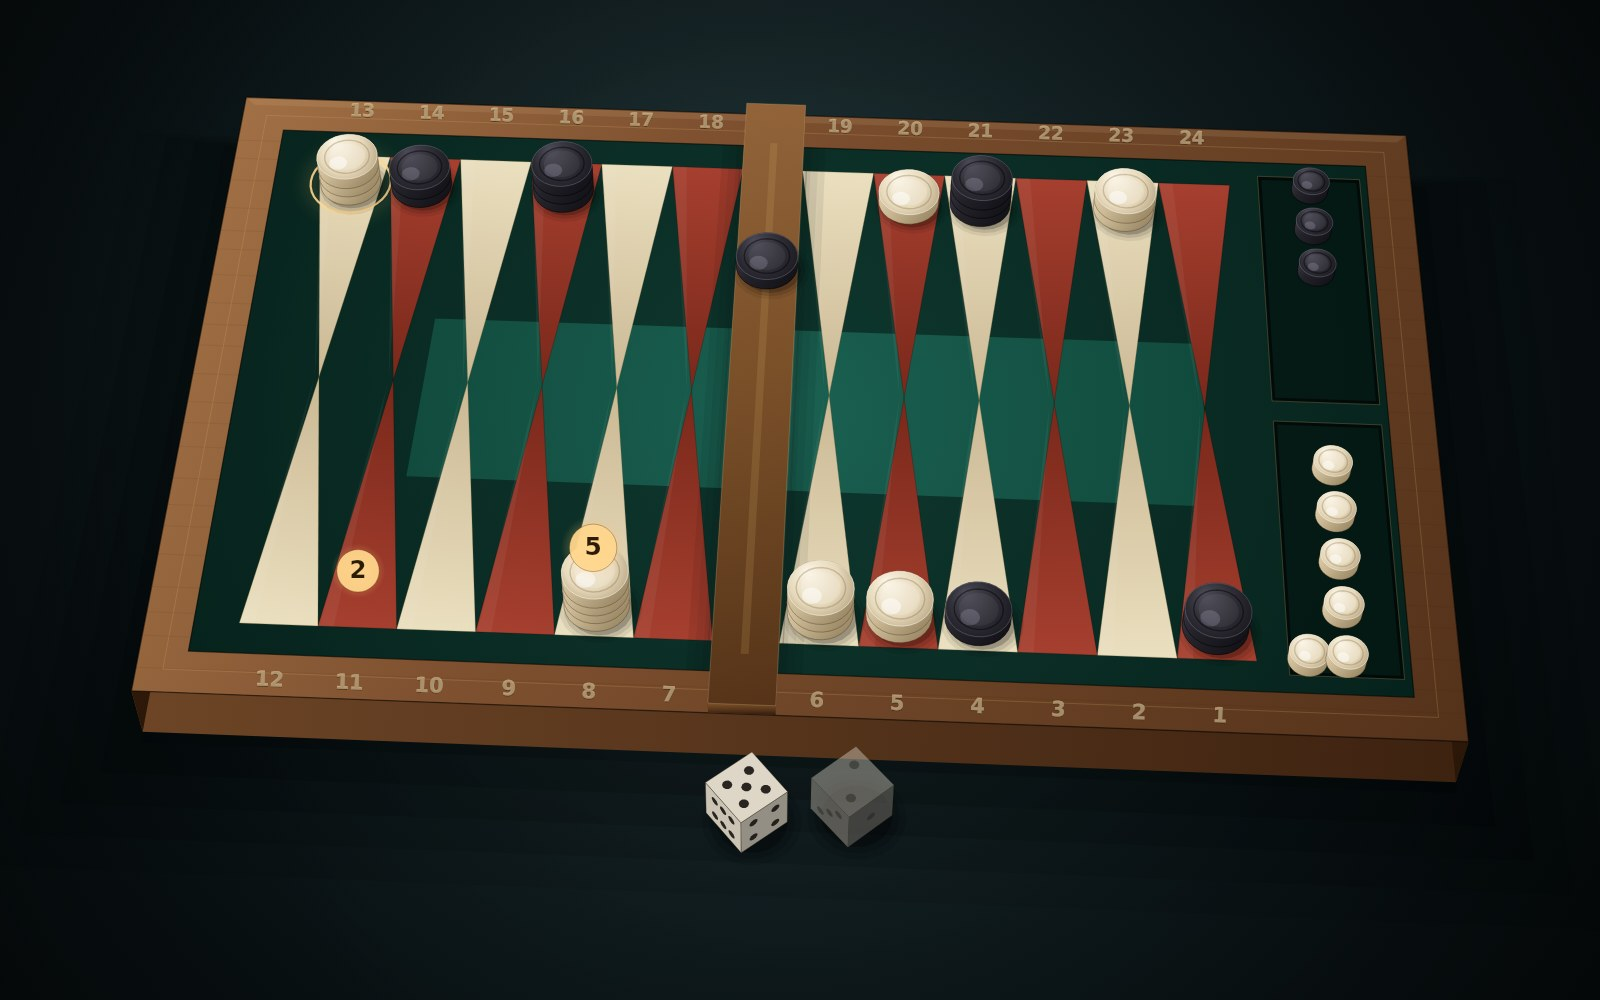
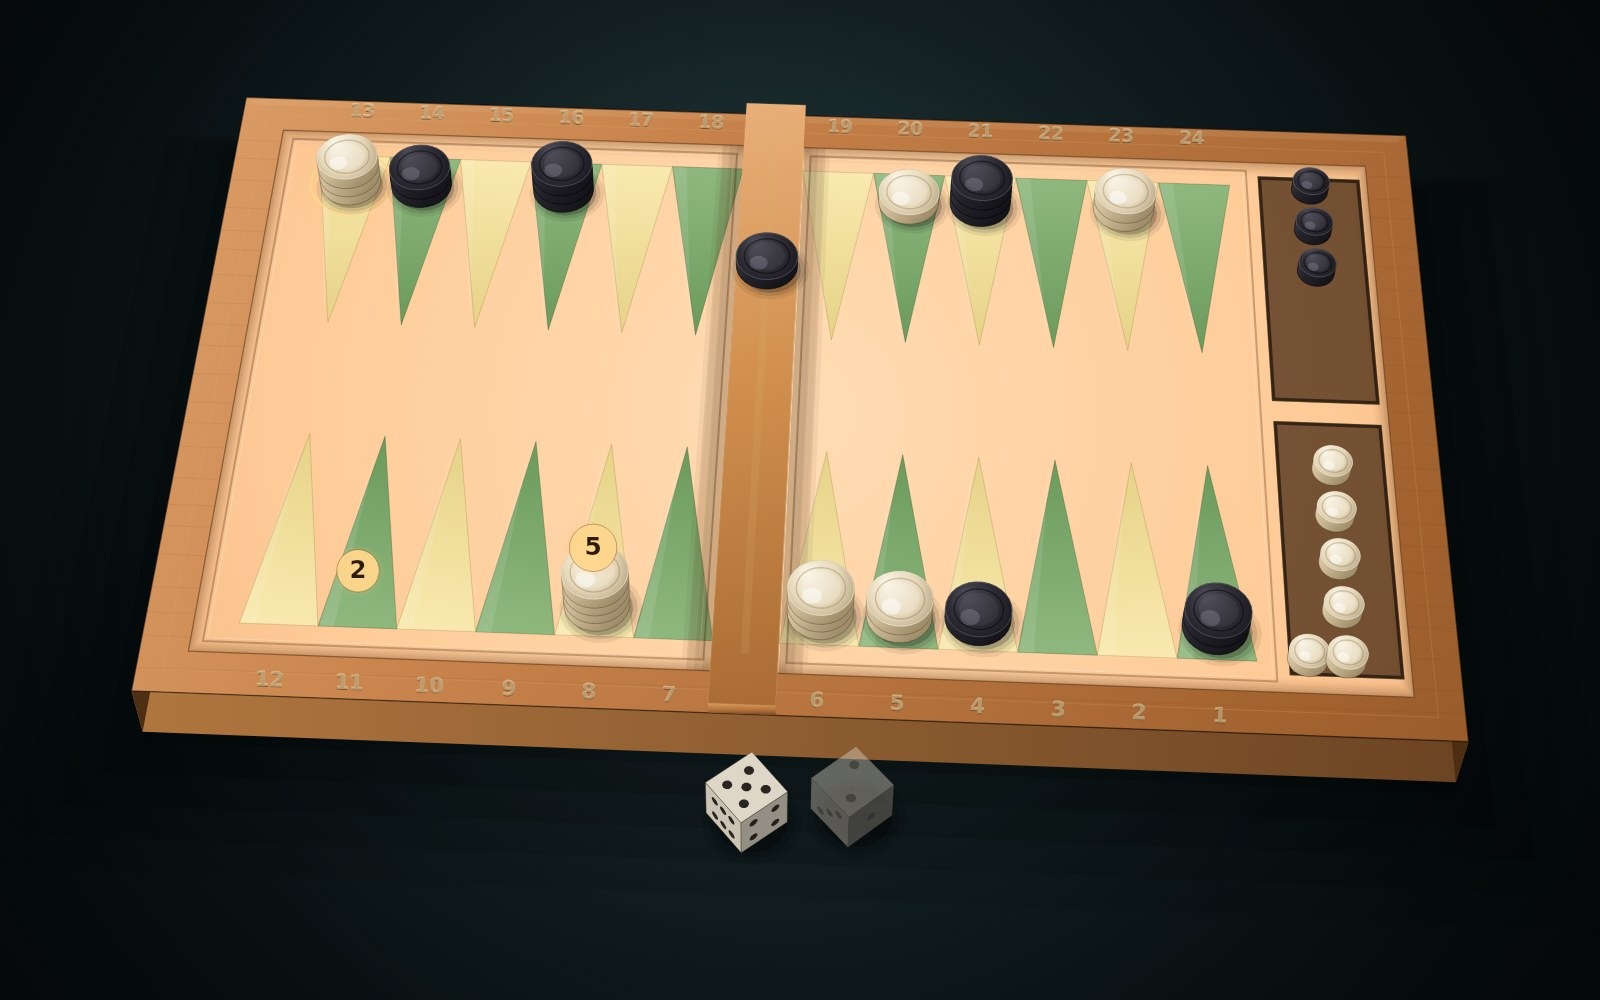
Rebuild the surface as two panels: peach field, short points, vertical-only section

diff --git a/js/scene.js b/js/scene.js
@@ -38,18 +38,20 @@ export const DICE_REST = [
   { x: 1.4, y: -5.84 },
 ];
 
+const POINT_GAP = 0.95;  // how far a point's tip stops short of the middle
+
 const COL = {
-  woodHi: '#a9774a',
-  wood: '#7f5130',
-  woodLo: '#54321a',
-  woodDeep: '#371d0d',
-  feltHi: '#1a6051',
-  felt: '#0f4639',
-  feltLo: '#082e27',
-  cream: '#eadfbf',
-  creamLo: '#cbb894',
-  red: '#a63f2f',
-  redLo: '#79281b',
+  woodHi: '#dda06a',
+  wood: '#c8824b',
+  woodLo: '#9a5c2b',
+  woodDeep: '#5d3413',
+  feltHi: '#ffdcb4',
+  felt: '#ffcc99',
+  feltLo: '#f0b47e',
+  pointA: '#f9e9ae',
+  pointALo: '#e6d287',
+  pointB: '#8fb87f',
+  pointBLo: '#6b9a5c',
   gold: '#d8b26a',
   ivory: '#f3ead7',
   ivoryDark: '#c9b998',
@@ -479,10 +481,10 @@ export class Renderer {
 
     // ---- sides
     const shades = [
-      ['#6d4526', '#3d2210'], // front (nearest)
-      ['#4c2e16', '#2a1608'], // right
-      ['#3a2110', '#20120a'], // back
-      ['#4c2e16', '#2a1608'], // left
+      ['#b0763f', '#6b4423'], // front (nearest)
+      ['#82562e', '#4a2c12'], // right
+      ['#5e3a1c', '#33190a'], // back
+      ['#82562e', '#4a2c12'], // left
     ];
     for (let i = 0; i < 4; i++) {
       const a = outer[i];
@@ -517,8 +519,8 @@ export class Renderer {
     ctx.save();
     trace(ctx, top);
     ctx.clip();
-    ctx.globalAlpha = 0.07;
-    ctx.strokeStyle = '#3a210f';
+    ctx.globalAlpha = 0.06;
+    ctx.strokeStyle = '#4a2a10';
     ctx.lineWidth = 1;
     for (let i = 0; i < 22; i++) {
       const y = b.OUT_Y0 + 0.35 + (i / 22) * (b.OUT_Y1 - b.OUT_Y0 - 0.7);
@@ -579,14 +581,19 @@ export class Renderer {
       [b.FELT_X1, b.FELT_Y1, 0.004],
       [b.FELT_X0, b.FELT_Y1, 0.004],
     ]);
-    trace(ctx, inner);
-    ctx.strokeStyle = 'rgba(0,0,0,0.42)';
-    ctx.lineWidth = 10 * (this.cam.focal / 90);
-    ctx.stroke();
+    // soft recessed edge: a stack of thin strokes instead of one wide one,
+    // so the shading fades out instead of ending on a hard visible edge
+    const k = clamp(this.cam.focal / 90, 0.5, 2.2);
+    for (let i = 1; i <= 7; i++) {
+      trace(ctx, inner);
+      ctx.strokeStyle = `rgba(94,52,16,${0.075 * (1 - (i - 1) / 8)})`;
+      ctx.lineWidth = i * 1.9 * k;
+      ctx.stroke();
+    }
     ctx.restore();
 
     trace(ctx, felt);
-    ctx.strokeStyle = 'rgba(0,0,0,0.55)';
+    ctx.strokeStyle = 'rgba(84,48,16,0.55)';
     ctx.lineWidth = 1.2;
     ctx.stroke();
 
@@ -618,7 +625,7 @@ export class Renderer {
     for (const [ya, yb] of wells) {
       const pts = this.poly3(ctx, [[x0, ya, z], [x1, ya, z], [x1, yb, z], [x0, yb, z]]);
       trace(ctx, pts);
-      ctx.fillStyle = 'rgba(3,18,15,0.62)';
+      ctx.fillStyle = 'rgba(58,30,10,0.70)';
       ctx.fill();
 
       // recessed inner shadow
@@ -640,23 +647,50 @@ export class Renderer {
   }
 
   drawSeam(ctx) {
-    // vertical accents either side of the bar: the board is split left/right,
-    // never top/bottom, so the only seam lines run along Y.
+    // Two framed panels, side by side, with the raised bar standing in the
+    // channel between them. Nothing here runs across the board horizontally,
+    // so the only section the eye can read is the vertical one.
     const b = BOARD;
-    const y0 = b.FELT_Y0 + 0.34;
-    const y1 = b.FELT_Y1 - 0.34;
-    for (const x of [-(b.BAR_HW + 0.05), b.BAR_HW + 0.05]) {
-      const s0 = this.p(x, y0, 0.005);
-      const s1 = this.p(x, y1, 0.005);
-      ctx.beginPath();
-      ctx.moveTo(s0.x, s0.y);
-      ctx.lineTo(s1.x, s1.y);
-      ctx.strokeStyle = 'rgba(0,0,0,0.20)';
-      ctx.lineWidth = 1.4;
+    const y0 = b.FELT_Y0 + 0.16;
+    const y1 = b.FELT_Y1 - 0.16;
+    const inset = 0.1;
+    const panels = [
+      [b.FELT_X0 + 0.16, -b.BAR_HW - inset],
+      [b.BAR_HW + inset, b.TRAY_X0 - 0.16],
+    ];
+    for (const [xa, xb] of panels) {
+      const rect = (dx, dy) => this.poly3(ctx, [
+        [xa + dx, y0 + dy, 0.005],
+        [xb - dx, y0 + dy, 0.005],
+        [xb - dx, y1 - dy, 0.005],
+        [xa + dx, y1 - dy, 0.005],
+      ]);
+      // warm shadow line marking the panel edge
+      trace(ctx, rect(0, 0));
+      ctx.strokeStyle = 'rgba(80,44,12,0.30)';
+      ctx.lineWidth = 2;
       ctx.stroke();
-      ctx.strokeStyle = 'rgba(255,255,255,0.05)';
+      // light bevel just inside it
+      trace(ctx, rect(0.05, 0.05));
+      ctx.strokeStyle = 'rgba(255,246,224,0.30)';
       ctx.lineWidth = 1;
       ctx.stroke();
+    }
+
+    // channel shadow on the felt either side of the bar, full depth
+    for (const side of [-1, 1]) {
+      const edge = side < 0 ? -b.BAR_HW - inset : b.BAR_HW + inset;
+      for (let i = 0; i < 3; i++) {
+        const a = edge + side * i * 0.09;
+        const c = a + side * 0.09;
+        const band = this.poly3(ctx, [
+          [a, b.FELT_Y0 + 0.16, 0.0048], [c, b.FELT_Y0 + 0.16, 0.0048],
+          [c, b.FELT_Y1 - 0.16, 0.0048], [a, b.FELT_Y1 - 0.16, 0.0048],
+        ]);
+        trace(ctx, band);
+        ctx.fillStyle = `rgba(70,38,10,${0.13 - i * 0.035})`;
+        ctx.fill();
+      }
     }
   }
 
@@ -668,12 +702,15 @@ export class Renderer {
       const x0 = xc - 0.5;
       const x1 = xc + 0.5;
       const baseY = bottom ? b.Y0 : b.Y1;
-      const apexY = 0;
+      // the reference board keeps its points well short of the middle: they run
+      // ~35% of the field and leave a band of bare surface between the rows, so
+      // nothing draws a horizontal line across the board.
+      const apexY = bottom ? -POINT_GAP : POINT_GAP;
       const z = 0.008;
       const tri = this.poly3(ctx, [[x0, baseY, z], [x1, baseY, z], [xc, apexY, z]]);
-      const isRed = colIndex(p) % 2 === 1;
-      const base = isRed ? COL.red : COL.cream;
-      const lo = isRed ? COL.redLo : COL.creamLo;
+      const isB = colIndex(p) % 2 === 1;
+      const base = isB ? COL.pointB : COL.pointA;
+      const lo = isB ? COL.pointBLo : COL.pointALo;
       const gBase = this.p(xc, baseY, z);
       const gApex = this.p(xc, apexY, z);
       const g = ctx.createLinearGradient(gBase.x, gBase.y, gApex.x, gApex.y);
@@ -682,7 +719,7 @@ export class Renderer {
       trace(ctx, tri);
       ctx.fillStyle = g;
       ctx.fill();
-      ctx.strokeStyle = isRed ? 'rgba(0,0,0,0.22)' : 'rgba(120,95,50,0.30)';
+      ctx.strokeStyle = isB ? 'rgba(52,78,42,0.34)' : 'rgba(120,98,44,0.26)';
       ctx.lineWidth = 0.9;
       ctx.stroke();
 
@@ -693,7 +730,7 @@ export class Renderer {
         [x0 + 0.2, baseY, z],
       ]);
       trace(ctx, sheen);
-      ctx.fillStyle = 'rgba(255,255,255,0.05)';
+      ctx.fillStyle = 'rgba(255,255,255,0.10)';
       ctx.fill();
     }
   }
@@ -717,13 +754,13 @@ export class Renderer {
           [c, b.FELT_Y1, 0.006], [a, b.FELT_Y1, 0.006],
         ]);
         trace(ctx, band);
-        ctx.fillStyle = `rgba(0,0,0,${0.18 - i * 0.055})`;
+        ctx.fillStyle = `rgba(70,38,10,${0.26 - i * 0.075})`;
         ctx.fill();
       }
     }
 
     // the two long side faces
-    for (const [x, col] of [[x0, '#432510'], [x1, '#4d2b14']]) {
+    for (const [x, col] of [[x0, '#8a5228'], [x1, '#9a5f31']]) {
       const face = this.poly3(ctx, [[x, y0, zt], [x, y1, zt], [x, y1, 0.008], [x, y0, 0.008]]);
       trace(ctx, face);
       ctx.fillStyle = col;
@@ -734,9 +771,9 @@ export class Renderer {
     const front = this.poly3(ctx, [[x0, y0, zt], [x1, y0, zt], [x1, y0, 0.008], [x0, y0, 0.008]]);
     let bb = bbox(front);
     let g = ctx.createLinearGradient(bb.x0, bb.y0, bb.x0, bb.y1);
-    g.addColorStop(0, '#7d5229');
-    g.addColorStop(0.55, '#57351a');
-    g.addColorStop(1, '#331b0b');
+    g.addColorStop(0, '#d99a5e');
+    g.addColorStop(0.55, '#b3743c');
+    g.addColorStop(1, '#7d4a1f');
     trace(ctx, front);
     ctx.fillStyle = g;
     ctx.fill();
@@ -745,9 +782,9 @@ export class Renderer {
     const top = this.poly3(ctx, [[x0, y0, zt], [x1, y0, zt], [x1, y1, zt], [x0, y1, zt]]);
     bb = bbox(top);
     g = ctx.createLinearGradient(bb.x0, bb.y0, bb.x1, bb.y1);
-    g.addColorStop(0, '#93643a');
-    g.addColorStop(0.45, '#7a5029');
-    g.addColorStop(1, '#553318');
+    g.addColorStop(0, '#eab07a');
+    g.addColorStop(0.45, '#d1904f');
+    g.addColorStop(1, '#a96b33');
     trace(ctx, top);
     ctx.fillStyle = g;
     ctx.fill();

diff --git a/README.md b/README.md
@@ -8,9 +8,12 @@ side walls, highlights and drop shadows, and the dice are **actual cubes** whose
 pips sit on the faces — they tumble through quaternion-space while rolling and
 land on the number you rolled.
 
-The layout is the classic one: the outer boards on the left, each player's home
-board on the right, the points meeting across the middle of the board and a
-raised **vertical bar** separating the two halves.
+The layout follows the reference diagram: two framed panels side by side on a
+pale peach field, the outer boards on the left and each player's home board on
+the right, short sage-and-cream points that stop well short of the centre, and
+a raised **vertical bar** standing in the channel between the panels. The board
+is divided **left to right only** — no line runs across it horizontally, so the
+bar is the single section in the surface.
 
 ![The board, mid-game](docs/preview.jpg)
 
